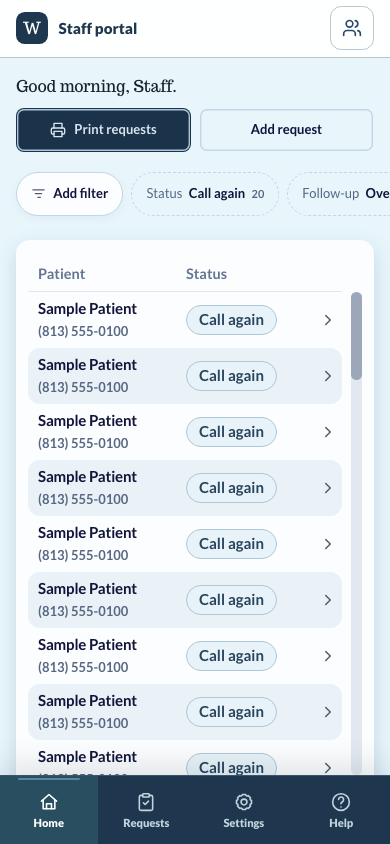
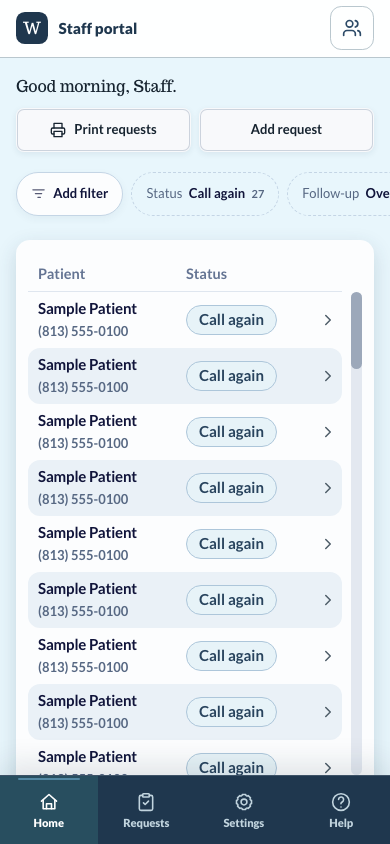
style(portal): quiet the Home Print and Add commands
Adopt the approved treatment from #285 for the two header commands only:
both sit on a near-white fill with a fine cool stroke, a low shadow and the
page ink, so neither outranks the day or the list. Print drops its navy
fill; both triggers now share the outline recipe and one `.wgi-cmd` class,
and the unused print vars leave home.css. Hover restates the outline hover
as surface plus a muted stroke. The filter bar and the list are untouched.
Home atlas images refreshed.

Closes #285

Changed region(s): [[0.0308, 0.1232, 0.4923, 0.1848], [0.8923, 0.4313, 0.9231, 0.4621], [0.6462, 0.2156, 0.6769, 0.2464]]

diff --git a/src/app/admin/(portal)/(home)/home.css b/src/app/admin/(portal)/(home)/home.css
@@ -226,9 +226,9 @@
   --wgi-track: #e3e8f0;
   --wgi-thumb: #9ca8ba;
   --wgi-chip-stroke: #c4d5e5;
-  --wgi-print-fill: #1b334a;
-  --wgi-print-stroke: #adc6da;
-  --wgi-print-ink: #dbe5ef;
+  --wgi-cmd-fill: #f8f9fb;
+  --wgi-cmd-stroke: #ccd3dd;
+  --wgi-cmd-shadow: 0 2px 6px rgba(27, 51, 74, 0.08);
   --wgi-badge-new-fill: #fff0dc;
   --wgi-badge-new-stroke: #ffcb89;
   --wgi-badge-new-ink: #a15a19;
@@ -270,28 +270,24 @@
   line-height: 1.1;
 }
 
-/* The two commands as the frame paints them: Print is the sidebar's navy
-   with a pale ring and pale ink; Add is inked on nothing but a ring. The
-   Button recipe keeps the geometry, press and focus; only paint is set here,
-   so its hover has to be restated (this file outranks its utilities). */
-.wgi-cmd-print {
-  background: var(--wgi-print-fill);
-  box-shadow: inset 0 0 0 1.4px var(--wgi-print-stroke);
-  color: var(--wgi-print-ink);
+/* Both commands are quiet, as the approved treatment paints them (#285):
+   a near-white fill, a fine cool stroke, a low shadow and the page ink, so
+   neither outranks the day or the list. The Button recipe keeps the
+   geometry, press and focus; only paint is set here, so the outline hover
+   has to be restated (this file outranks its utilities). */
+.wgi-cmd {
+  background: var(--wgi-cmd-fill);
+  box-shadow:
+    inset 0 0 0 1px var(--wgi-cmd-stroke),
+    var(--wgi-cmd-shadow);
+  color: var(--color-ink);
 }
 
-.wgi-cmd-print:hover {
-  background: color-mix(in oklch, var(--wgi-print-fill) 86%, white);
-}
-
-.wgi-cmd-add {
-  box-shadow: inset 0 0 0 1.4px var(--wgi-chip-stroke);
-  color: var(--wgi-name-ink);
-}
-
-.wgi-cmd-add:hover {
-  background: color-mix(in oklch, var(--color-navy) 5%, transparent);
-  box-shadow: inset 0 0 0 1.4px var(--color-navy);
+.wgi-cmd:hover {
+  background: var(--wgi-surface);
+  box-shadow:
+    inset 0 0 0 1px var(--wgi-muted-ink),
+    var(--wgi-cmd-shadow);
 }
 
 /* Filters sit 26px under the header, 11px apart; the Add filter capsule is

diff --git a/src/app/admin/(portal)/(home)/home-workbench.tsx b/src/app/admin/(portal)/(home)/home-workbench.tsx
@@ -75,12 +75,12 @@ export function HomeWorkbench({
           <div className="portal-sheet-commands print-hide">
             <PrintChooser
               statusCounts={statusCounts}
-              triggerClassName={cn(buttonVariants(), "wgi-cmd-print")}
+              triggerClassName={cn(buttonVariants({ variant: "outline" }), "wgi-cmd")}
               triggerLabel="Print requests"
             />
             <AddAppointmentDialog
               idempotencyKey={addRequestKey}
-              triggerClassName={cn(buttonVariants({ variant: "outline" }), "wgi-cmd-add")}
+              triggerClassName={cn(buttonVariants({ variant: "outline" }), "wgi-cmd")}
             />
           </div>
         </header>
